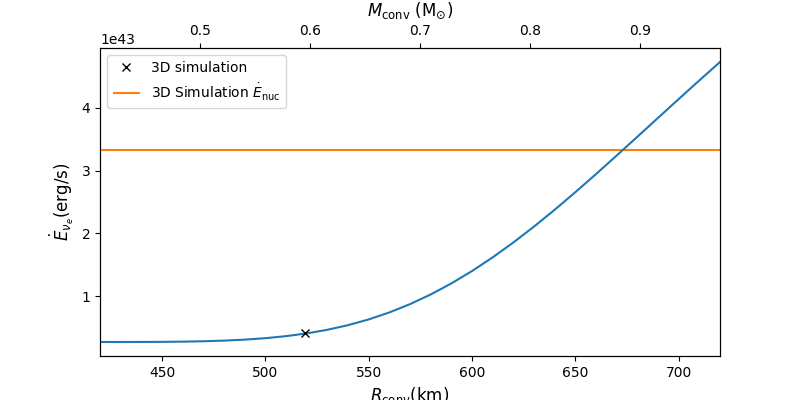
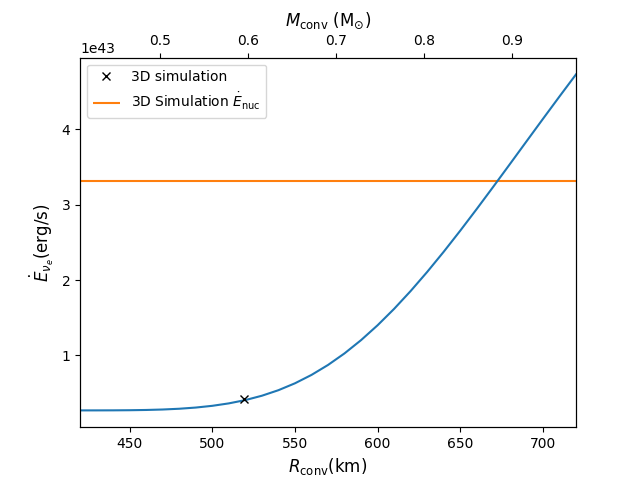
revert plot dimensions

diff --git a/calc_nu_loss.py b/calc_nu_loss.py
@@ -23,7 +23,7 @@ def calc_const_nu_loss(Xne23, Xna23, ecap_nu_loss_arr, bdecay_nu_loss_arr, mass_
 
 
 def plot_nu_losses(rad_arr, Rconv_arr, nu_loss_arr, ratio_arr, sample=4):
-    fig, ax = plt.subplots(1, 1, figsize=(8, 4))
+    fig, ax = plt.subplots(1, 1)
 
     min_color = 0.2
     cmap_range = (1/(1-min_color)) * (np.max(Rconv_arr) - np.min(Rconv_arr))

diff --git a/calc_optimal_ratio_v_Rconv.py b/calc_optimal_ratio_v_Rconv.py
@@ -138,7 +138,7 @@ def find_optimal_ratio(Rconv, const_variables, urca_total, guess=1.,
 
 def plot_results(Rconv, Mconv, ratio, 
                  ylabel="$X({}^{23} \\mathrm{Ne}) / X({}^{23} \\mathrm{Na})$"):
-    fig, ax = plt.subplots(1, 1, figsize=(8, 4))
+    fig, ax = plt.subplots(1, 1) 
 
     # do main plot w/ Rconv
     ax.plot(Rconv, ratio)
